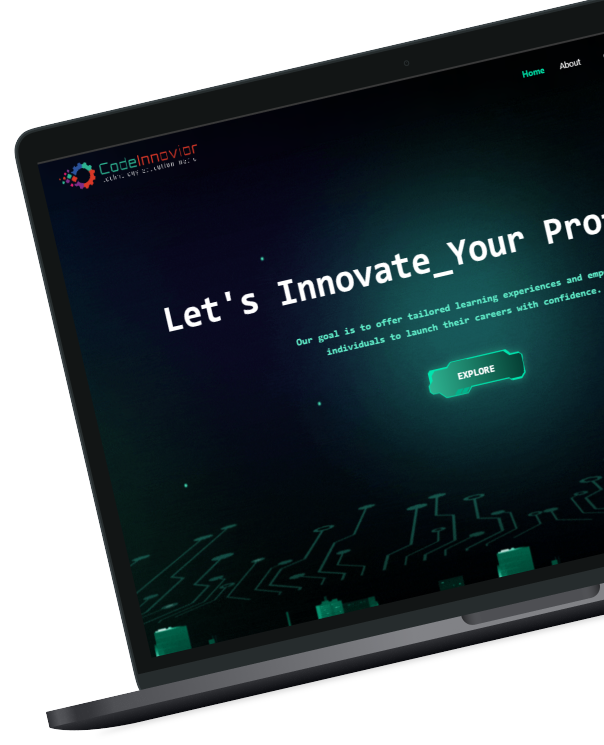
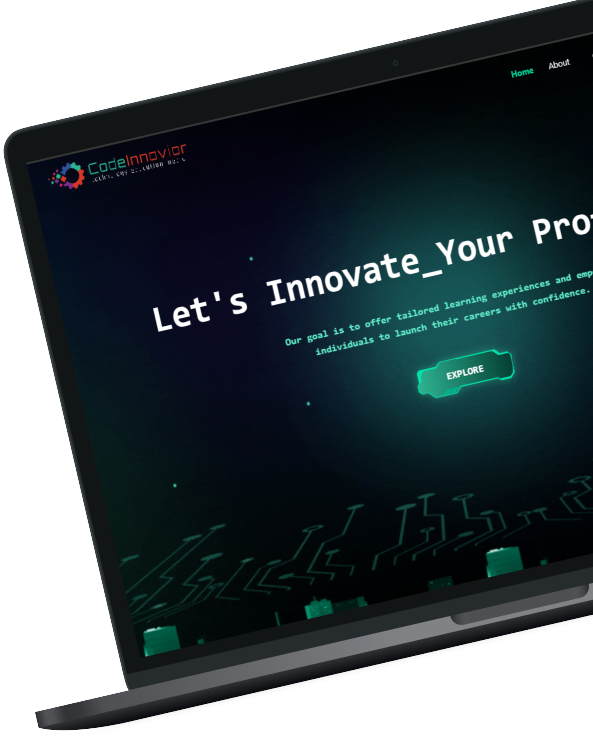
[ADD] hero responsive

diff --git a/src/components/Home/Banner/Banner.jsx b/src/components/Home/Banner/Banner.jsx
@@ -3,10 +3,11 @@ import bg1 from "../../../assets/home/b1.png";
 import bg2 from "../../../assets/home/b2.png";
 import circle from "../../../assets/home/hero.gif"
 import { FaCalendarCheck } from "react-icons/fa";
+import { Link } from "react-router-dom";
 
 const Banner = () => {
     return (
-        <div className="relative flex items-center justify-center h-[800px] md:h-[1180px] bg-black text-white font-mono">
+        <div className="relative flex items-center justify-center h-[1800px] md:h-[2000px] lg:h-[1000px] bg-black text-white font-mono ">
             {/* Backgrounds circle */}
             <div
                 className="absolute inset-0 bg-no-repeat -top-[500px]"
@@ -14,53 +15,53 @@ const Banner = () => {
             ></div>
             <div className="container mx-auto lg:max-w-7xl">
                 <div className="lg:flex justify-between relative z-10">
-                    <div className="space-y-10">
+                    <div className="space-y-10 mx-4">
                         <h1 className="text-3xl md:text-5xl lg:text-6xl font-bold mb-4">
                             Turn Vision into Reality Redefine Your Learning!
                         </h1>
                         <p className="text-lg md:text-xl mb-6 text-[#5FEAC7]">
                             Empowering Your Journey with Innovative Solutions and Unmatched Expertise.
                         </p>
-                        <button
+                        <Link to="/about"
 
                             className="relative inline-block px-4 py-2 font-medium group"
                         >
                             <span className="absolute inset-0 w-full h-full transition duration-200 ease-out transform translate-x-1 translate-y-1 bg-blue-800 group-hover:-translate-x-0 group-hover:-translate-y-0 rounded"></span>
                             <span className="absolute inset-0 w-full h-full bg-gradient-to-r from-[#2e60ac] to-[#0d72d2] border-none  group-hover:bg-blue-500 rounded"></span>
-                            <span className="relative flex gap-4 text-white py-3">
+                            <span className="relative flex gap-4 text-white py-3 uppercase">
                                 <FaCalendarCheck className="text-xl" />
-                                Book a Free Class
+                              Explore us
                             </span>
-                        </button>
+                        </Link>
 
                         {/* Stats Section */}
                         <div className="flex  gap-10 pt-16">
                             <div className="text-center">
-                                <p className="text-6xl ">01+</p>
+                                <p className="text-4xl md:text-6xl">01+</p>
                                 <p>Available Program</p>
                             </div>
                             <div className="text-center">
-                                <p className="text-6xl ">21+</p>
+                                <p className="text-4xl md:text-6xl">21+</p>
                                 <p>Active Module</p>
                             </div>
                             <div className="text-center">
-                                <p className="text-6xl ">100+</p>
+                                <p className="text-4xl md:text-6xl">100+</p>
                                 <p>Satisfied Students</p>
                             </div>
                         </div>
                     </div>
 
                     {/* Devices Mockups */}
-                    <div className="md:flex justify-center items-center gap-6 mt-10">
+                    <div className="md:flex  gap- mt-10 items-end">
                         <img
                             src={bg2}
-                            alt="Laptop Mockup"
-                            className="shadow-lg mt-20"
+                             alt="Mobile Mockup"
+                            className="mt-20 "
                         />
                         <img
                             src={bg1}
-                            alt="Mobile Mockup"
-                            className=" shadow-lg"
+                             alt="Laptop Mockup"
+                             className=""
                         />
                     </div>
                 </div>

diff --git a/src/components/Home/OurCourse/OurCourse.jsx b/src/components/Home/OurCourse/OurCourse.jsx
@@ -4,7 +4,6 @@ import WebsiteDevelopment from './WebsiteDev';
 import UiUx from './UiUx';
 import Graphics from './Graphics';
 import CyberSecurity from './CyberSecurity';
-import { div } from 'framer-motion/client';
 
 
 const OurCourse = () => {
